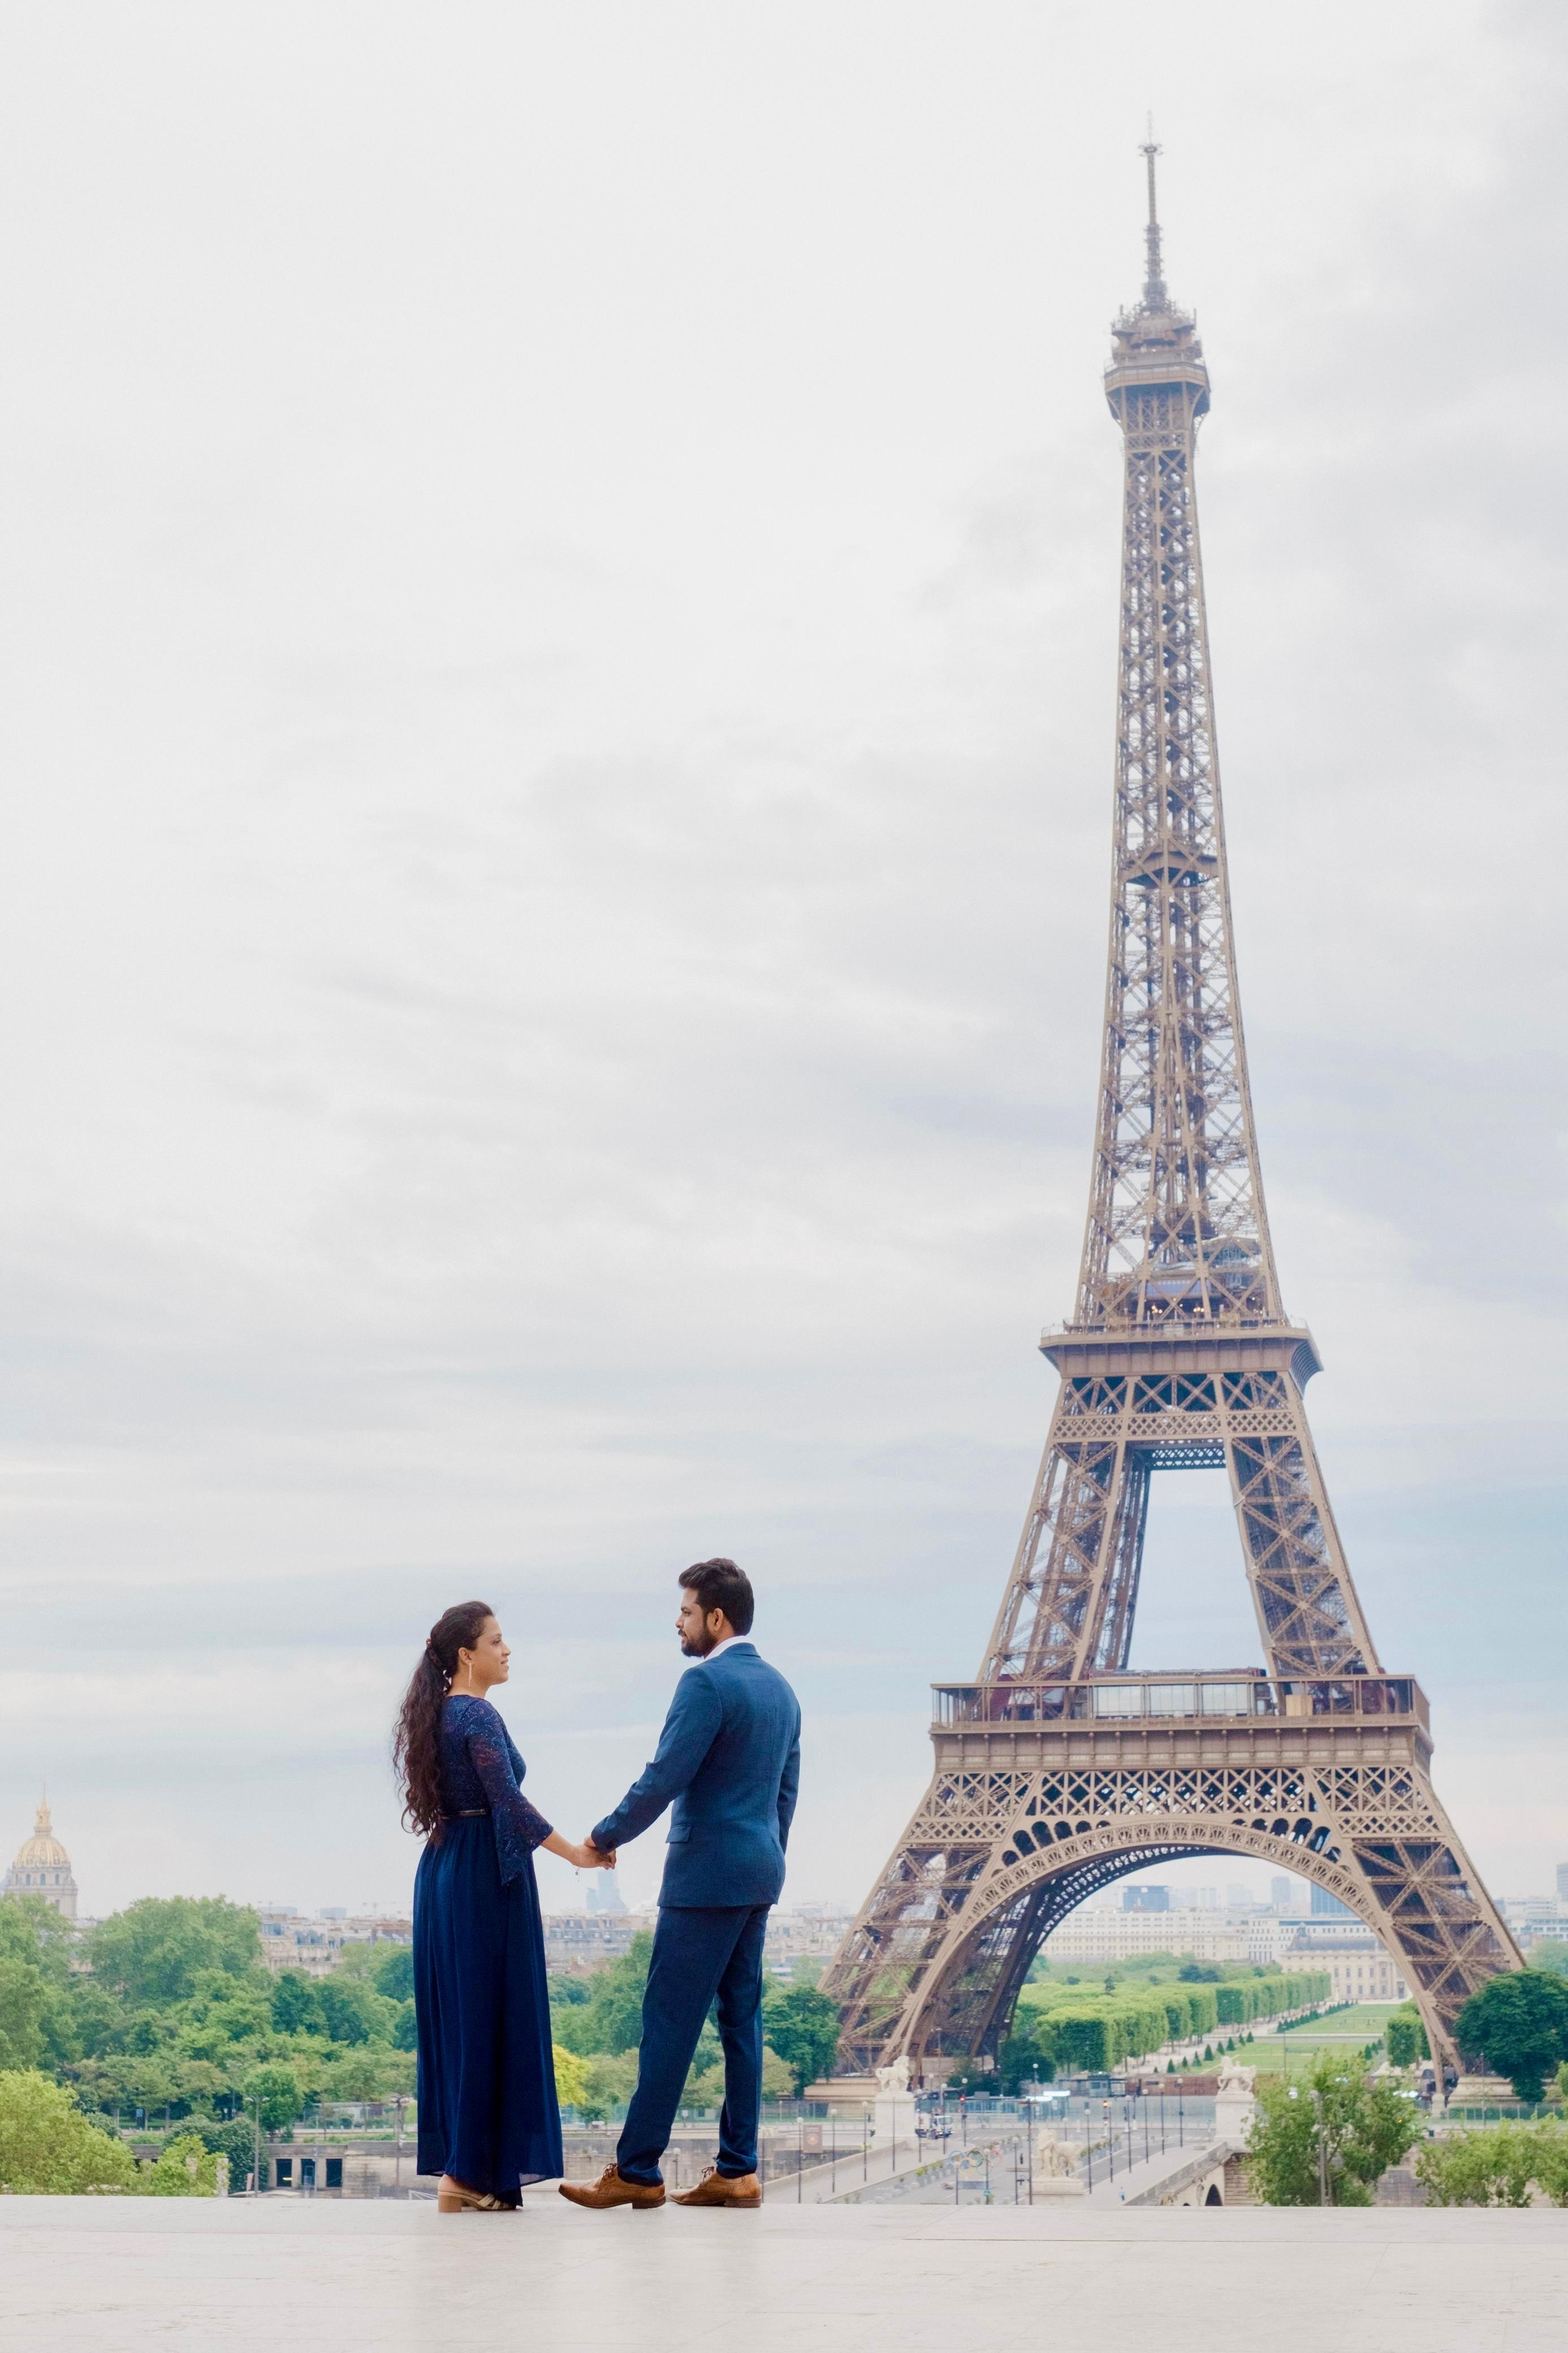
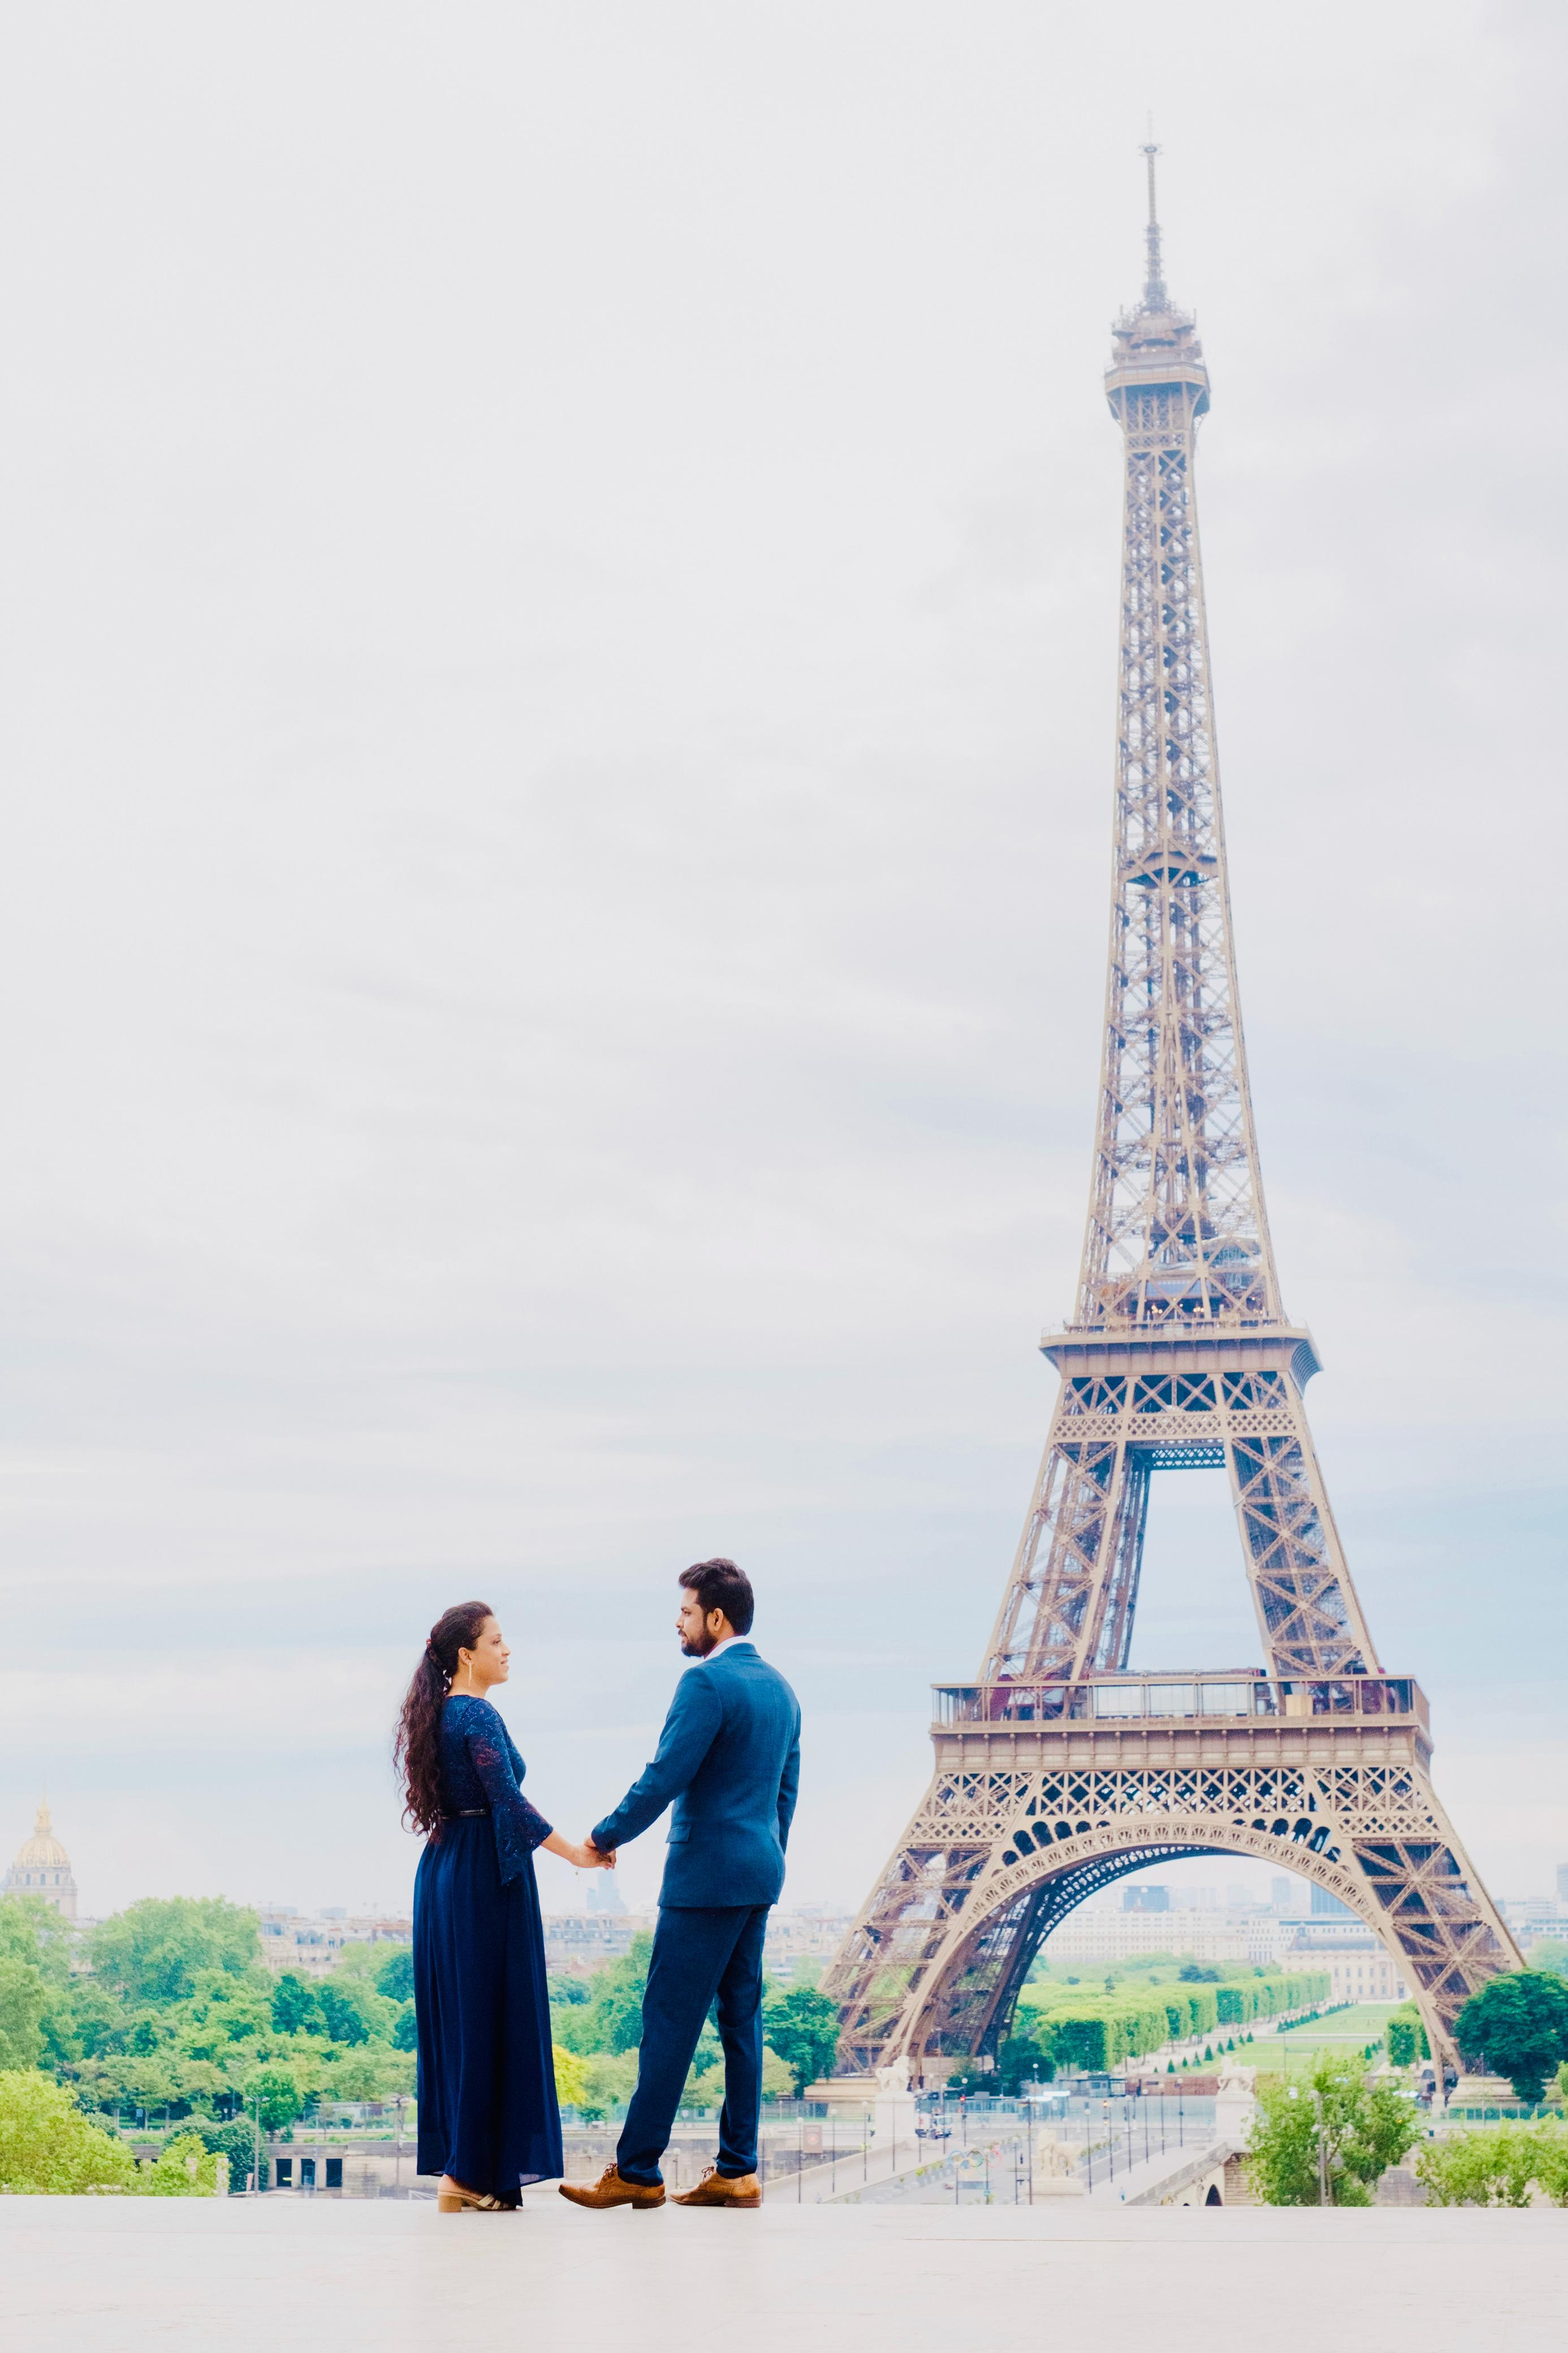
Updated cover photo

Changed region(s): [[0.3411, 0.0938, 1.0, 0.9375], [0.0, 0.7812, 0.3101, 0.9688], [0.2481, 0.6875, 0.3411, 0.7812]]

diff --git a/style.css b/style.css
@@ -342,8 +342,9 @@ body {
 /* ==========================================
    2. COVER PHOTO & COUNTDOWN
 ========================================== */
+/* SMOOTH FULL-IMAGE COVER CARD */
 .cover-overlay {
-    background: #3a4b5c;
+    background: linear-gradient(180deg, #dce6ea 0%, #cbd9de 100%); /* Soft sky tone matching your photo */
     position: relative;
     display: flex;
     flex-direction: column;
@@ -354,8 +355,11 @@ body {
 .cover-overlay img {
     width: 100%;
     height: 100%;
-    object-fit: cover;
+    object-fit: contain; /* Keeps 100% of the image visible (tower tip + feet) */
     display: block;
+    /* Softly blends photo edges into the background */
+    mask-image: linear-gradient(to right, transparent 0%, black 5%, black 95%, transparent 100%);
+    -webkit-mask-image: linear-gradient(to right, transparent 0%, black 5%, black 95%, transparent 100%);
 }
 
 .cover-details {
@@ -363,12 +367,13 @@ body {
     inset: 0;
     display: flex;
     flex-direction: column;
-    justify-content: flex-end;
-    align-items: center;
-    text-align: center;
+    justify-content: flex-start;
+    align-items: flex-start;
+    text-align: left;
     color: #ffffff;
-    padding: 18px 12px;
-    background: linear-gradient(to top, rgba(0,0,0,.85) 0%, transparent 60%);
+    padding-top: 24px;
+    padding-left: 45px;          /* Nudges the whole block to the right */
+    background: linear-gradient(to bottom, rgba(0,0,0,0.75) 0%, transparent 55%);
     z-index: 5;
 }
 

diff --git a/index.html b/index.html
@@ -5,7 +5,6 @@
     <meta name="viewport" content="width=device-width, initial-scale=1.0, viewport-fit=cover">
     <title>Amreen & Anil | Wedding Reception Invitation</title>
     
-    <meta name="description" content="Wedding Reception invitation of Amreen & Anil #AA♾♥">
     <meta property="og:title" content="Amreen & Anil Wedding Reception Invitation">
     <meta property="og:image" content="images/logo_AA.jpg">
     <meta property="og:type" content="website">
